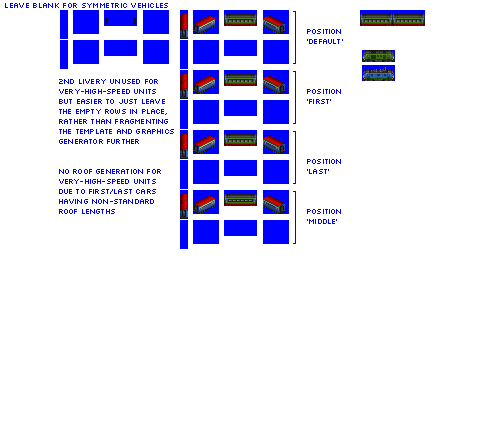
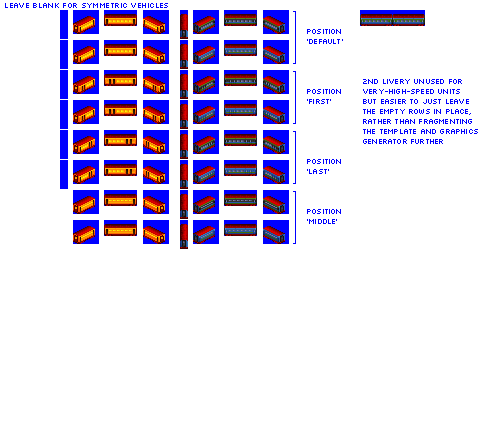
Change: WIP on very high speed pax unit sprites and livery handling

diff --git a/src/train.py b/src/train.py
@@ -527,6 +527,7 @@ class PassengerVeryHighSpeedMiddleEngineConsist(PassengerEngineConsist):
         self.wagons_add_power = True
         self.tilt_bonus = True
         # Graphics configuration
+        self.roof_type = 'pax_mail_smooth'
         # 1 livery as can't be flipped, 1 spriterow may be left blank for compatibility with Gestalt (TBC)
         # position variants
         # * unit with driving cabs both ends
@@ -535,7 +536,7 @@ class PassengerVeryHighSpeedMiddleEngineConsist(PassengerEngineConsist):
         # * unit with no cabs (center car)
         # ruleset will combine these to make multiple-units n vehicles long
         spriterow_group_mappings = {'pax': {'default': 0, 'first': 1, 'last': 2, 'special': 3}}
-        self.gestalt_graphics = GestaltGraphicsConsistSpecificLivery(spriterow_group_mappings, consist_ruleset="pax_very_high_speed")
+        self.gestalt_graphics = GestaltGraphicsConsistSpecificLivery(spriterow_group_mappings, consist_ruleset="pax_cars")
 
     @property
     def cab_power(self):

diff --git a/src/gestalt_graphics/pipelines.py b/src/gestalt_graphics/pipelines.py
@@ -813,6 +813,7 @@ class ExtendSpriterowsForCompositedSpritesPipeline(Pipeline):
             self.add_pantograph_spritesheet(global_constants)
 
         if self.consist.buy_menu_x_loc == 360:
+            print(self.consist.pantograph_type)
             self.add_custom_buy_menu_sprite()
 
         input_image = Image.open(self.input_path).crop((0, 0, graphics_constants.spritesheet_width, 10))
